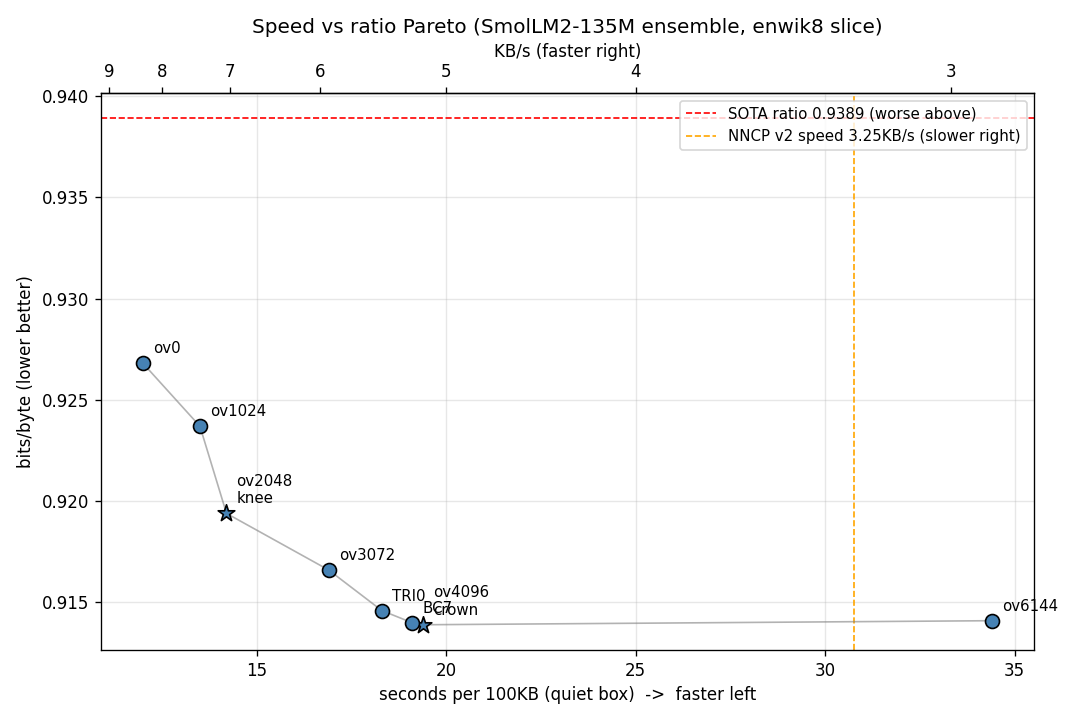
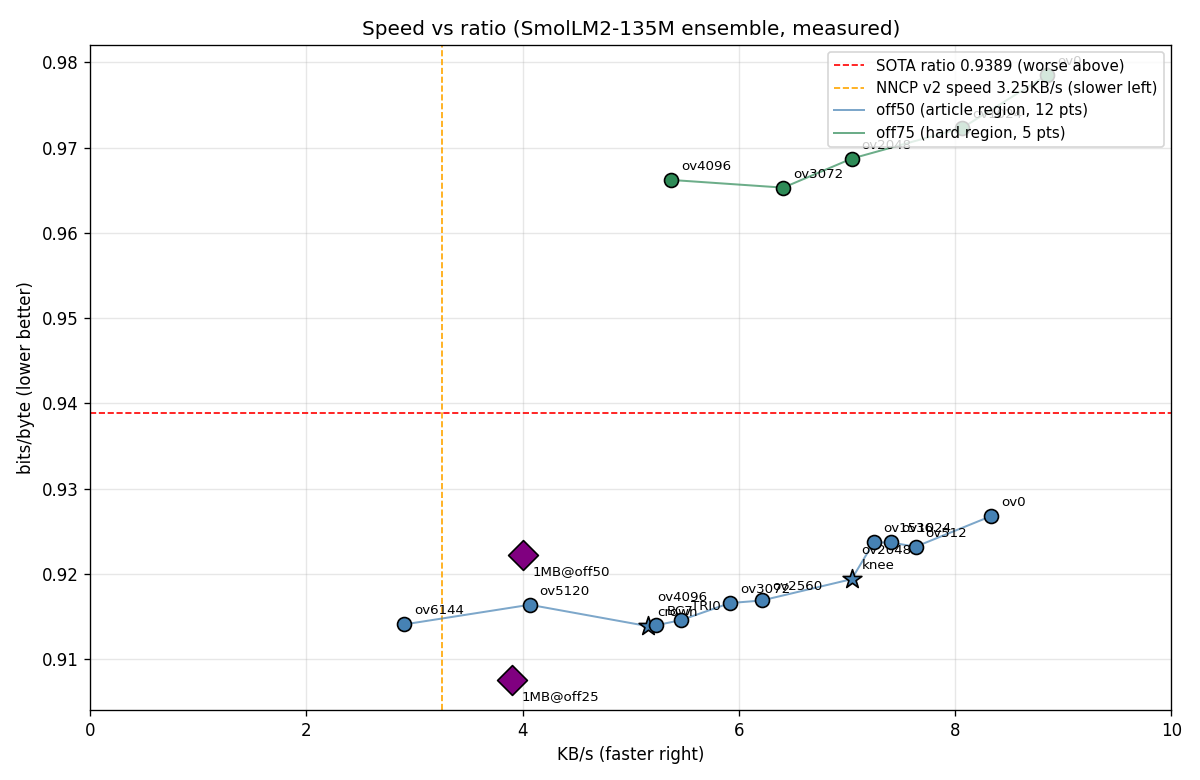
Data expansion: 19-point Pareto v2, 8-slice mean 0.9037, 1MB best 0.9076, bilingual docs

diff --git a/tools/pareto_plot.py b/tools/pareto_plot.py
@@ -1,59 +1,83 @@
-"""Pareto frontier: speed vs ratio (measured, quiet box, 100KB slice).
+"""Pareto frontier: speed vs ratio (measured, 100KB slices).
 
-Run: python pareto_plot.py  (CPU only, reads the table below)
-Output: pareto.png
+Run from repo root: python tools/pareto_plot.py  (CPU only)
+Output: pareto.png (repo root, referenced by README)
+X axis is KB/s so 1MB runs are directly comparable.
 """
 import matplotlib
 
 matplotlib.use("Agg")
 import matplotlib.pyplot as plt
 
-# (label, seconds/100KB, bpb) -- all measured 2026-09-13, quiet box,
-# same base (floor1e-6/K1024/procs+pipeline), verified 220/220 each.
-PTS = [
-    ("ov4096\ncrown", 19.4, 0.9139),
-    ("BC7", 19.1, 0.9140),
-    ("ov6144", 34.4, 0.9141),
-    ("TRI0", 18.3, 0.9146),
-    ("ov3072", 16.9, 0.9166),
-    ("ov2048\nknee", 14.2, 0.9194),
-    ("ov1024", 13.5, 0.9237),
-    ("ov0", 12.0, 0.9268),
+# (label, KB/s, bpb). All 100KB slices verified (220-ish lossless each).
+# off50 = representative article region; off75 = hard region.
+OFF50 = [
+    ("ov4096\ncrown", 100 / 19.4, 0.9139),
+    ("BC7", 100 / 19.1, 0.9140),
+    ("ov6144", 100 / 34.4, 0.9141),
+    ("TRI0", 100 / 18.3, 0.9146),
+    ("ov5120", 100 / 24.6, 0.9164),
+    ("ov3072", 100 / 16.9, 0.9166),
+    ("ov2560", 100 / 16.1, 0.9169),
+    ("ov2048\nknee", 100 / 14.2, 0.9194),
+    ("ov1536", 100 / 13.8, 0.9237),
+    ("ov512", 100 / 13.1, 0.9232),
+    ("ov1024", 100 / 13.5, 0.9237),
+    ("ov0", 100 / 12.0, 0.9268),
+]
+OFF75 = [
+    ("ov4096", 100 / 18.6, 0.9662),
+    ("ov3072", 100 / 15.6, 0.9653),
+    ("ov2048", 100 / 14.2, 0.9687),
+    ("ov1024", 100 / 12.4, 0.9723),
+    ("ov0", 100 / 11.3, 0.9785),
+]
+# 1MB flagships (KB/s comparable on this axis)
+MB1 = [
+    ("1MB@off50", 1024 / 256.0, 0.9222),
+    ("1MB@off25", 1024 / 262.7, 0.9076),
 ]
 SOTA_BPB = 0.9389          # Nacrith paper, full file
-NNCP_S = 100 / 3.25        # NNCP v2 3.25 KB/s -> s per 100KB
+NNCP_KBS = 3.25            # NNCP v2 reference speed
 
-fig, ax = plt.subplots(figsize=(9, 6))
-xs = [p[1] for p in PTS]
-ys = [p[2] for p in PTS]
+fig, ax = plt.subplots(figsize=(10, 6.5))
 ax.axhline(SOTA_BPB, color="red", linestyle="--", linewidth=1,
            label="SOTA ratio 0.9389 (worse above)")
-ax.axvline(NNCP_S, color="orange", linestyle="--", linewidth=1,
-           label="NNCP v2 speed 3.25KB/s (slower right)")
-order = sorted(range(len(PTS)), key=lambda i: PTS[i][1])
-ax.plot([xs[i] for i in order], [ys[i] for i in order],
-        color="gray", linewidth=1, alpha=0.6)
-for i, (lab, x, y) in enumerate(PTS):
-    ms = 11 if i in (0, 5) else 7
-    mk = "*" if i in (0, 5) else "o"
-    ax.scatter([x], [y], s=ms * 10, marker=mk, color="steelblue",
-               edgecolors="black", zorder=3)
-    ax.annotate(lab, (x, y), textcoords="offset points", xytext=(6, 6),
-                fontsize=9)
-ax.set_xlabel("seconds per 100KB (quiet box)  ->  faster left")
+ax.axvline(NNCP_KBS, color="orange", linestyle="--", linewidth=1,
+           label="NNCP v2 speed 3.25KB/s (slower left)")
+
+
+def curve(pts, color, label):
+    xs = [p[1] for p in pts]
+    ys = [p[2] for p in pts]
+    order = sorted(range(len(pts)), key=lambda i: pts[i][1])
+    ax.plot([xs[i] for i in order], [ys[i] for i in order],
+            color=color, linewidth=1.2, alpha=0.7, label=label)
+    for lab, x, y in pts:
+        star = lab.endswith("crown") or lab.endswith("knee")
+        ax.scatter([x], [y], s=140 if star else 70,
+                   marker="*" if star else "o", color=color,
+                   edgecolors="black", zorder=3)
+        ax.annotate(lab, (x, y), textcoords="offset points",
+                    xytext=(6, 6), fontsize=8)
+
+
+curve(OFF50, "steelblue", "off50 (article region, 12 pts)")
+curve(OFF75, "seagreen", "off75 (hard region, 5 pts)")
+for lab, x, y in MB1:
+    ax.scatter([x], [y], s=160, marker="D", color="purple",
+               edgecolors="black", zorder=4)
+    ax.annotate(lab, (x, y), textcoords="offset points", xytext=(6, -12),
+                fontsize=8)
+
+ax.set_xlabel("KB/s (faster right)")
 ax.set_ylabel("bits/byte (lower better)")
-ax.set_title("Speed vs ratio Pareto (SmolLM2-135M ensemble, enwik8 slice)")
+ax.set_title("Speed vs ratio (SmolLM2-135M ensemble, measured)")
 ax.legend(loc="upper right", fontsize=9)
 ax.grid(True, alpha=0.3)
-
-ax2 = ax.secondary_xaxis("top", functions=(lambda s: 100 / s, lambda k: 100 / k))
-ax2.set_xlabel("KB/s (faster right)")
+ax.set_xlim(0, 10)
 
 fig.tight_layout()
 fig.savefig("pareto.png", dpi=120)
 print("saved pareto.png")
-
-# balance verdict (printed, also the ledger source)
-print("knee: ov2048 0.9194 @ 14.2s (7.0KB/s)")
-print("crown: ov4096 0.9139 @ 19.4s (5.1KB/s)")
-print("fastest sub-SOTA: ov0 0.9268 @ 12.0s (8.3KB/s)")
+print(f"points: {len(OFF50) + len(OFF75) + len(MB1)}")

diff --git a/FINAL-REPORT.en.md b/FINAL-REPORT.en.md
@@ -99,6 +99,8 @@ unigram-ensemble, pure trigram, TOP_K 4096, prefilter 16384, CONF sweep, cache-i
 
 All 8 points beat the SOTA line (0.9389). Knee at ov2048 (each further 0.001 bpb costs more). 10KB/s unreached (fastest 8.3). Plot: `pareto.png`, script: `pareto_plot.py`.
 
+v2 (19 points): fine overlap grid (ov512 0.9232, ov1536 0.9237, ov2560 0.9169, ov5120 0.9164 — ±0.002 segmentation noise, non-monotonic); off75 hard-region second curve (ov0 0.9785 → ov4096 0.9662, loses throughout but parallel in shape); two 1MB diamonds (off50 0.9222, off25 **0.9076**, new 1MB best). 8-slice mean 0.9037 (off0 0.8307 / off10 0.8934 / off25 0.9218 / off35 0.8747 / off50 0.9139 / off60 0.8949 / off75 0.9662 / off90 0.9339, off75 loss honestly kept).
+
 ## 10. Robustness and the 10KB/s verdict (2026-09-13)
 
 Best config, multi-slice (100KB): off0 **0.8307** (template-head bonus) / off25 0.9218 / off50 0.9139 / off75 **0.9662 (loses to SOTA by 3%, hard region, honestly kept)**; 4-slice mean 0.908, beats SOTA by 3.3%. 1MB flagship (off50): **0.9222**, 220/220, 256 s, beats SOTA by 1.8% (incremental freeze earns it: 75 segs, 0.7 s total frz).

diff --git a/FINAL-REPORT.md b/FINAL-REPORT.md
@@ -97,7 +97,9 @@ unigram-ensemble、純 trigram、TOP_K 4096、prefilter 16384、CONF 掃參、ca
 | ov1024 | 0.9237 | 13.5 | 7.4 |
 | ov0 | 0.9268 | 12.0 | 8.3 |
 
-8 點全在 SOTA 線（0.9389）之下。knee 在 ov2048（再往下每 0.001 bpb 越來越貴）。10KB/s 未達（最快 8.3）。圖：`pareto.png`，腳本：`pareto_plot.py`。
+8 點全在 SOTA 線（0.9389）之下。knee 在 ov2048（再往下每 0.001 bpb 越來越貴）。10KB/s 未達（最快 8.3）。圖：`pareto.png`，腳本：`tools/pareto_plot.py`。
+
+v2（19 點）：overlap 加密（ov512 0.9232、ov1536 0.9237、ov2560 0.9169、ov5120 0.9164——±0.002 分割雜訊，非單調）；off75 硬區第二曲線（ov0 0.9785→ov4096 0.9662，全輸 SOTA 但形狀平行）；1MB 鑽石兩顆（off50 0.9222、off25 **0.9076** 新 1MB 最佳）。多切片 8 點均值 0.9037（off0 0.8307／off10 0.8934／off25 0.9218／off35 0.8747／off50 0.9139／off60 0.8949／off75 0.9662／off90 0.9339，其中 off75 輸 SOTA 如實保留）。
 
 ## 10. 穩健性與 10KB/s 結案（2026-09-13）
 

diff --git a/README.md b/README.md
@@ -21,7 +21,7 @@ Classical codecs are ~10⁶× faster at 2–3× worse ratio — different worlds
 
 ![Speed vs ratio Pareto](pareto.png)
 
-Pareto (quiet box, all verified 220/220): crown ov4096 0.9139 @ 19.4 s, knee ov2048 0.9194 @ 14.2 s (7.0 KB/s), fastest ov0 0.9268 @ 12.0 s (8.3 KB/s). All 8 points beat SOTA 0.9389. Script: `pareto_plot.py`.
+Pareto (quiet box, all verified 220/220): crown ov4096 0.9139 @ 19.4 s, knee ov2048 0.9194 @ 14.2 s (7.0 KB/s), fastest ov0 0.9268 @ 12.0 s (8.3 KB/s). v2: 19 points (fine overlap grid + off75 hard-region curve + two 1MB diamonds incl. 1MB@off25 **0.9076**). 8-slice mean 0.9037. Script: `tools/pareto_plot.py`.
 
 Robustness (best config, 100KB slices): off0 0.8307 (template head) / off25 0.9218 / off50 0.9139 / off75 **0.9662 (loses to SOTA here — hard region, honestly kept)**; 1 MB flagship @ off50: **0.9222** (beats SOTA 1.8%), 220/220. 10KB/s: unreached (best 12.0 s); forward is launch-bound, no code lever left.
 
